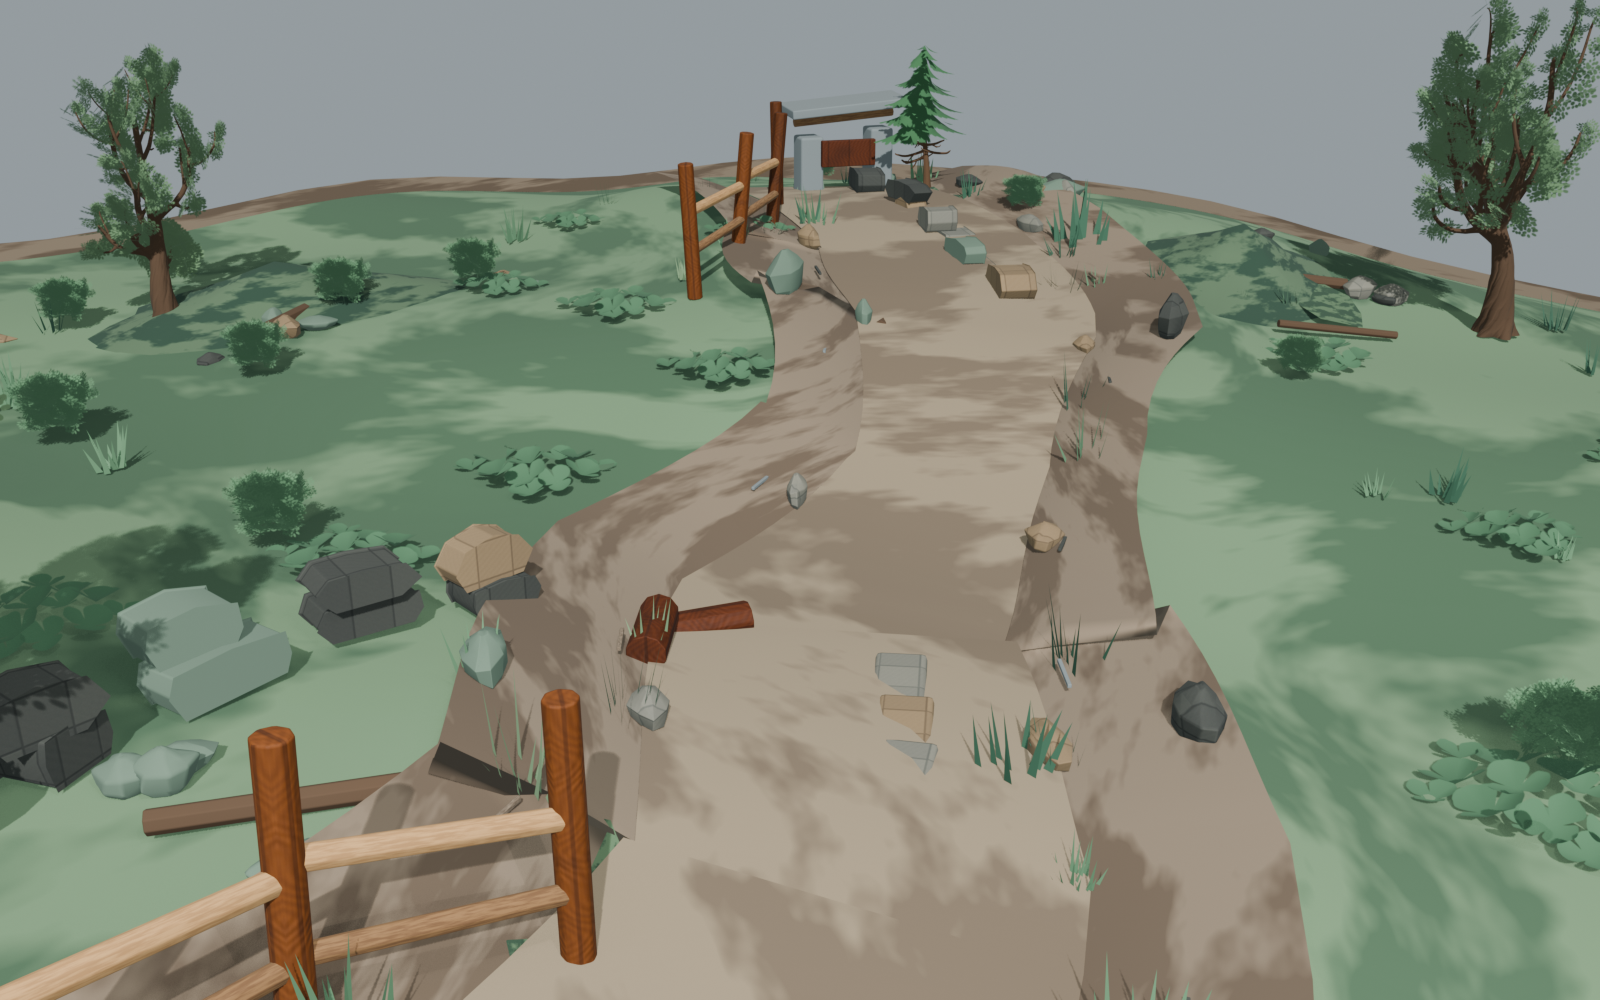
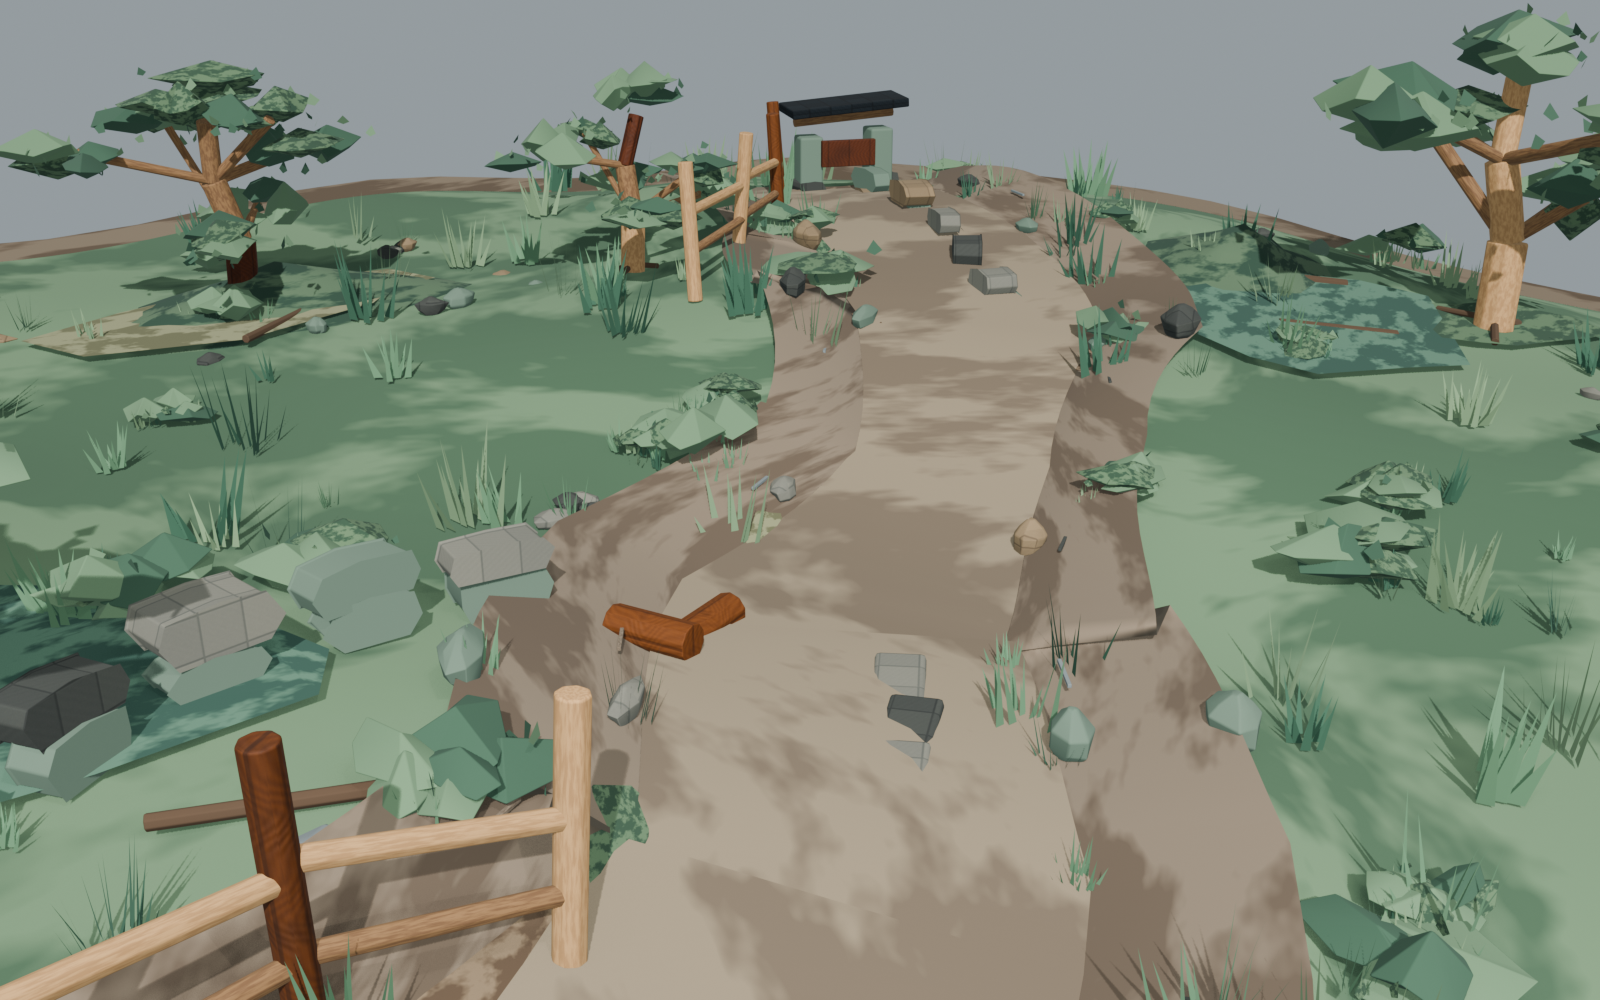
Replace external kit with procedural exterior details

diff --git a/src/main.js b/src/main.js
@@ -150,7 +150,10 @@ function tuneEnvironmentMaterial(child) {
   if (/dark_wood|wood_dark|root_dark|charred/.test(key)) color = 0x342416;
   else if (/wood|trunk|branch|rail|fence|post|root|timber|log|plank|beam|sign|door/.test(key)) color = 0x72492d;
   else if (/roof|slate/.test(key)) color = 0x242b2d;
+  else if (/dry_grass|worn_meadow/.test(key)) color = 0x77734a;
+  else if (/cool_grass|shadow_low|shadow_moss|terrain_material.*shadow/.test(key)) color = 0x34513b;
   else if (/sculpted_terraced_ground|grass_high|grass_low|meadow/.test(key)) color = 0x526d4b;
+  else if (/trampled_soil|dead_leaf|path_shoulder/.test(key)) color = 0x6a5135;
   else if (/layered_s_curved_dirt_path|path_dirt|path_dry/.test(key)) color = 0x755f4d;
   else if (/cut_earth_path_embankment|earth_bank/.test(key)) color = 0x604b3b;
   else if (/stone|cobble|slab|rock/.test(key)) color = 0x73766e;